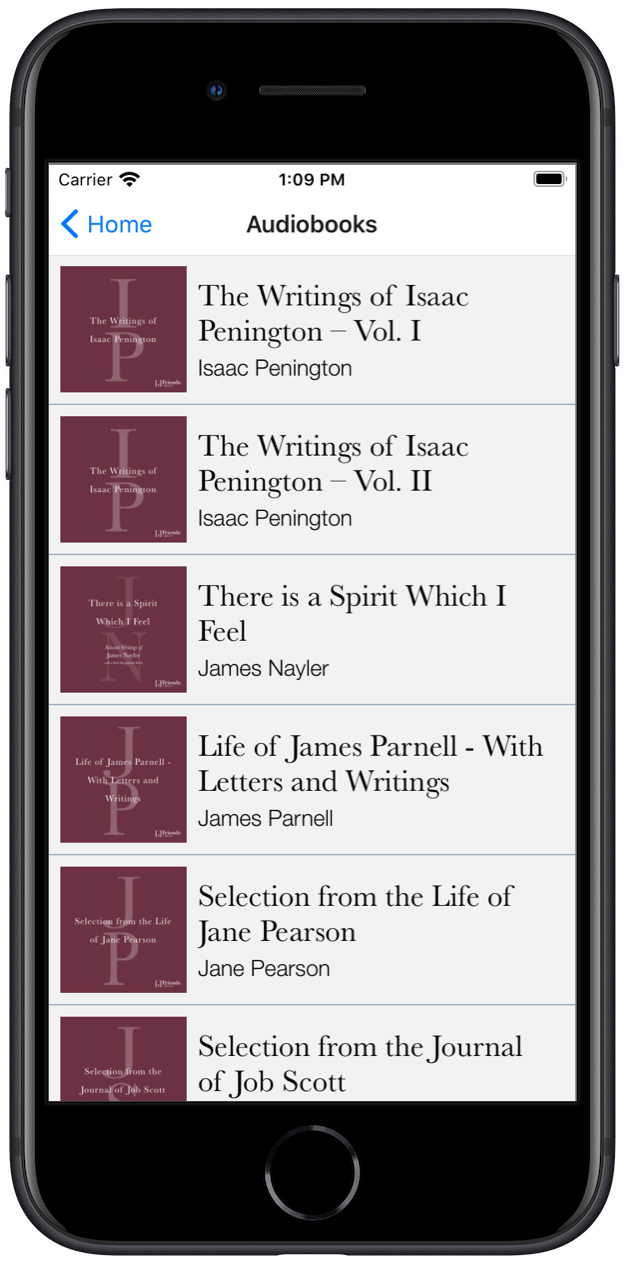
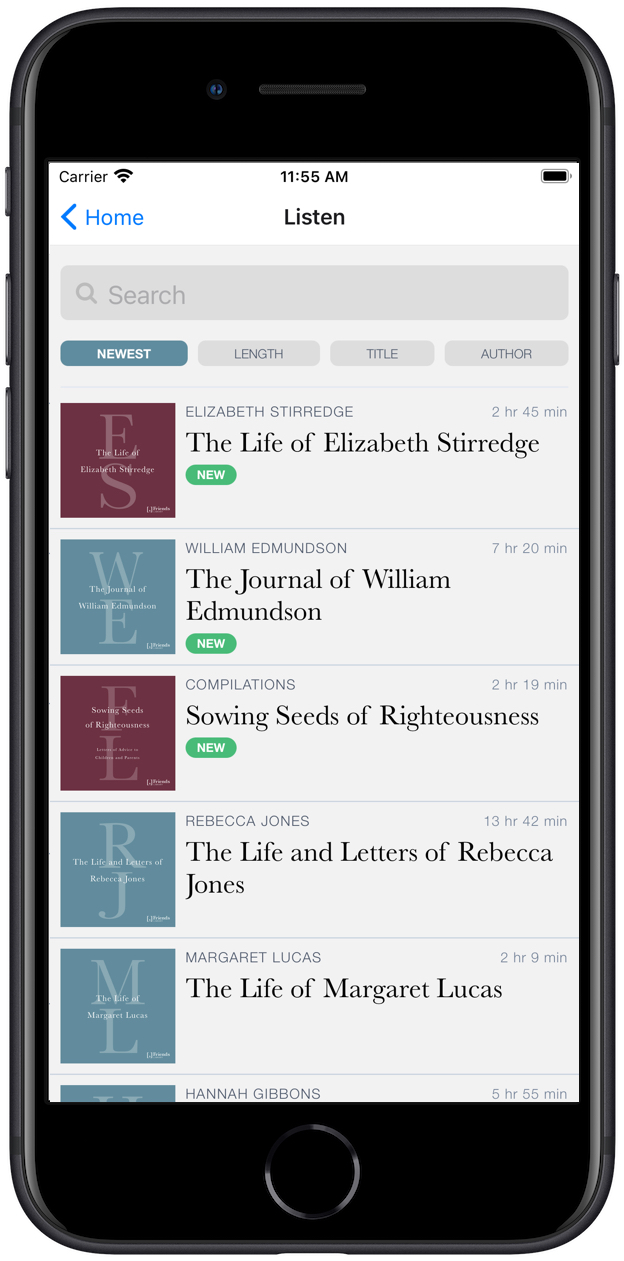
new screenshots for app page

diff --git a/src/pages/app.tsx b/src/pages/app.tsx
@@ -25,6 +25,12 @@ interface Props {
     audioEs: Screenshot;
     audioListEn: Screenshot;
     audioListEs: Screenshot;
+    homeEn: Screenshot;
+    homeEs: Screenshot;
+    readEn: Screenshot;
+    readEs: Screenshot;
+    ebookEn: Screenshot;
+    ebookEs: Screenshot;
   };
 }
 
@@ -82,13 +88,13 @@ const AppPage: React.FC<Props> = ({ data }) => {
           <AppBadges.Ios />
           <AppBadges.Android />
         </div>
-        <Dual.H3 className="text-flgray-900 text-2xl tracking-widest mb-6">
+        <Dual.H3 className="text-flgray-900 text-2xl tracking-widest mb-6 mt-6">
           <>
             Easy to use <span className="underline inline-block pr-1">audiobooks</span>
             ...
           </>
           <>
-            Es muy fácil escuchar{' '}
+            Es muy fácil escuchar{` `}
             <span className="underline inline-block pr-1">audiolibros</span> ...
           </>
         </Dual.H3>
@@ -104,7 +110,8 @@ const AppPage: React.FC<Props> = ({ data }) => {
             conveniently later when you may or may not have internet.
           </>
           <>
-            Actualmente, La Biblioteca de los Amigos tiene {data.audioBooks.totalCount}{' '}
+            Actualmente, La Biblioteca de los Amigos tiene {data.audioBooks.totalCount}
+            {` `}
             libros grabados en forma de Audiolibros, y ese número seguirá creciendo.
             Desafortunadamente, descargar y escuchar nuestros audiolibros directamente
             desde este sitio web puede ser difícil, incluso para usuarios con cierto
@@ -115,6 +122,18 @@ const AppPage: React.FC<Props> = ({ data }) => {
             Wifi, y escucharlos luego a tu conveniencia, sin conexión de internet.
           </>
         </Dual.P>
+        <Dual.Div className="flex space-x-4 mb-10">
+          <>
+            <Image className="w-48" fluid={data.splashEn.image.fluid} alt="" />
+            <Image className="w-48" fluid={data.audioEn.image.fluid} alt="" />
+            <Image className="w-48" fluid={data.audioListEn.image.fluid} alt="" />
+          </>
+          <>
+            <Image className="w-48" fluid={data.splashEs.image.fluid} alt="" />
+            <Image className="w-48" fluid={data.audioEs.image.fluid} alt="" />
+            <Image className="w-48" fluid={data.audioListEs.image.fluid} alt="" />
+          </>
+        </Dual.Div>
         <Dual.H3 className="text-flgray-900 text-2xl tracking-widest mb-6">
           <>
             <span className="pr-1">...</span>or <span className="underline">read</span>
@@ -151,16 +170,17 @@ const AppPage: React.FC<Props> = ({ data }) => {
         </Dual.P>
         <Dual.Div className="flex space-x-4 mb-10">
           <>
-            <Image className="w-48" fluid={data.splashEn.image.fluid} alt="" />
-            <Image className="w-48" fluid={data.audioEn.image.fluid} alt="" />
-            <Image className="w-48" fluid={data.audioListEn.image.fluid} alt="" />
+            <Image className="w-48" fluid={data.homeEn.image.fluid} alt="" />
+            <Image className="w-48" fluid={data.readEn.image.fluid} alt="" />
+            <Image className="w-48" fluid={data.ebookEn.image.fluid} alt="" />
           </>
           <>
-            <Image className="w-48" fluid={data.splashEs.image.fluid} alt="" />
-            <Image className="w-48" fluid={data.audioEs.image.fluid} alt="" />
-            <Image className="w-48" fluid={data.audioListEs.image.fluid} alt="" />
+            <Image className="w-48" fluid={data.homeEs.image.fluid} alt="" />
+            <Image className="w-48" fluid={data.readEs.image.fluid} alt="" />
+            <Image className="w-48" fluid={data.ebookEs.image.fluid} alt="" />
           </>
         </Dual.Div>
+
         <Dual.P className="body-text pb-12 max-w-screen-md leading-loose">
           <>
             In the future, we plan to continue to add a number of useful features to the
@@ -230,6 +250,48 @@ export const query = graphql`
     }
     audioBooks: allDocument(filter: { hasAudio: { eq: true } }) {
       totalCount
+    }
+    readEn: file(relativePath: { eq: "app-screens/app-read.en.jpg" }) {
+      image: childImageSharp {
+        fluid(quality: 90, maxHeight: 400) {
+          ...GatsbyImageSharpFluid_withWebp
+        }
+      }
+    }
+    readEs: file(relativePath: { eq: "app-screens/app-read.es.jpg" }) {
+      image: childImageSharp {
+        fluid(quality: 90, maxHeight: 400) {
+          ...GatsbyImageSharpFluid_withWebp
+        }
+      }
+    }
+    ebookEn: file(relativePath: { eq: "app-screens/app-ebook.en.jpg" }) {
+      image: childImageSharp {
+        fluid(quality: 90, maxHeight: 400) {
+          ...GatsbyImageSharpFluid_withWebp
+        }
+      }
+    }
+    ebookEs: file(relativePath: { eq: "app-screens/app-ebook.es.jpg" }) {
+      image: childImageSharp {
+        fluid(quality: 90, maxHeight: 400) {
+          ...GatsbyImageSharpFluid_withWebp
+        }
+      }
+    }
+    homeEn: file(relativePath: { eq: "app-screens/app-home.en.jpg" }) {
+      image: childImageSharp {
+        fluid(quality: 90, maxHeight: 400) {
+          ...GatsbyImageSharpFluid_withWebp
+        }
+      }
+    }
+    homeEs: file(relativePath: { eq: "app-screens/app-home.es.jpg" }) {
+      image: childImageSharp {
+        fluid(quality: 90, maxHeight: 400) {
+          ...GatsbyImageSharpFluid_withWebp
+        }
+      }
     }
     splashEn: file(relativePath: { eq: "app-screens/app-splash.en.jpg" }) {
       image: childImageSharp {
